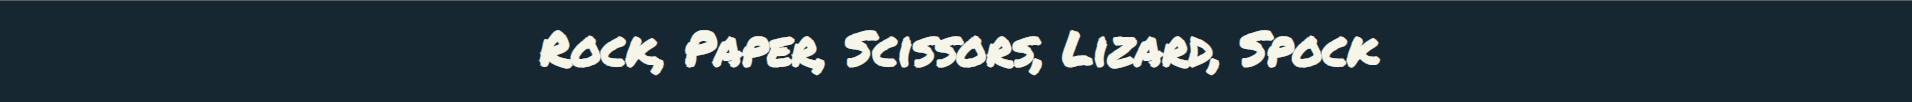
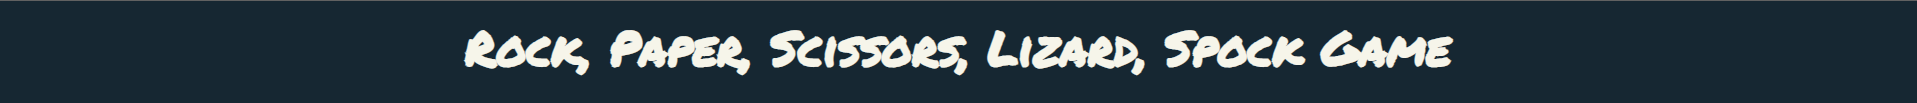
Added content and images to score area and game area secitons of readme

Changed region(s): [[0.216, 0.2941, 0.7714, 0.7353]]

diff --git a/README.md b/README.md
@@ -1,8 +1,8 @@
 # Large Explosion Idea - Rock, Paper, Scissors, Lizard, Spock Game
 
-'Large Explosion Idea - Rock, Paper, Scissors, Lizard, Spock' is a game designed to demonstrate how Javascript can be easily utilised for a variety of requirements when building a website. The site is targeted towards fans of web based games and the popular tv series 'The Big Bang Theory' as well as fellow developers looking to understand alternative Javascript concepts. 
+'Large Explosion Idea - Rock, Paper, Scissors, Lizard, Spock' (RPSLS) is a game designed to demonstrate how Javascript can be easily utilised for a variety of requirements when building a website. The site is targeted towards fans of web based games and the popular tv series 'The Big Bang Theory' as well as fellow developers looking to understand alternative Javascript concepts. 
 
-Large Explosion Idea - RPSLS is a fully responsive interactive game that asks users to choose one of the 5 options (Rock, Paper, Scissors, Lizard, Spock) and in turn generates a random computer choice, the first player to reach a score of 10 wins the match.
+Large Explosion Idea - RPSLS is a fully responsive interactive game that asks users to choose one of the 5 options (Rock, Paper, Scissors, Lizard, Spock) and in turn generates a random computer choice in response, the first player to reach a score of 10 wins the match.
 
 ![Responsive image](assets/images/responsive.png)
 
@@ -14,14 +14,20 @@ This section give detailed descriptions of each part of the Large Explosion Idea
 
 - __The Large Explosion Idea Heading__
 
-  - Featured at the top of the page, the Large Explosion Idea heading is clearly readable to the user. Upon viewing the page, the user will be able to see the name of the game 'Rock, Paper, Scissors, Lizard, Spock'.
+  - Featured at the top of the page, the Large Explosion Idea heading is clearly readable to the user. Upon viewing the page, the user will be able to see the name of the game 'Rock, Paper, Scissors, Lizard, Spock Game'.
 
 ![Logo](assets/images/rpsls%20heading.png)
 
+- __The Score Area__
+
+  - This section is located directly below the heading and allows the user to see a more detailed image of the selection they have played, the number of wins and losses in that match and the result declaration for each round. 
+
+![score](assets/images/score-area.png)
+
 - __The Game Area__
 
-  - This section will allow the user to play the maths game. The user will be able to easily see icons for addition,  subtraction, multiplication, and division games.
-  - The user will be able to select the type of maths game they will be playing by clicking on the different icons. 
+  - This section allows the user to play the RPSLS game. The user is clearly able to see the selection icons for Rock, Paper, Scissors, Lizard and Spock as represented by 'hand' silhouette icons.
+  - The user is able to select the choice for that round of the game by clicking 1 of the five icons in the 'Make a selection:' section of the game area. 
 
 ![Game](media/love_maths_icons.png)
 
@@ -31,12 +37,6 @@ This section give detailed descriptions of each part of the Large Explosion Idea
   - The user will be able to submit their answer and a pop-up will make it known to the user if they answered correctly. 
 
 ![Question](media/love_maths_question.png)
-
-- __The Score Area__
-
-  - This section will allow the user to see exactly how many correct and incorrect answers they have provided. 
-
-![score](media/love_maths_answer.png)
 
 For some/all of your features, you may choose to reference the specific project files that implement them.
 
